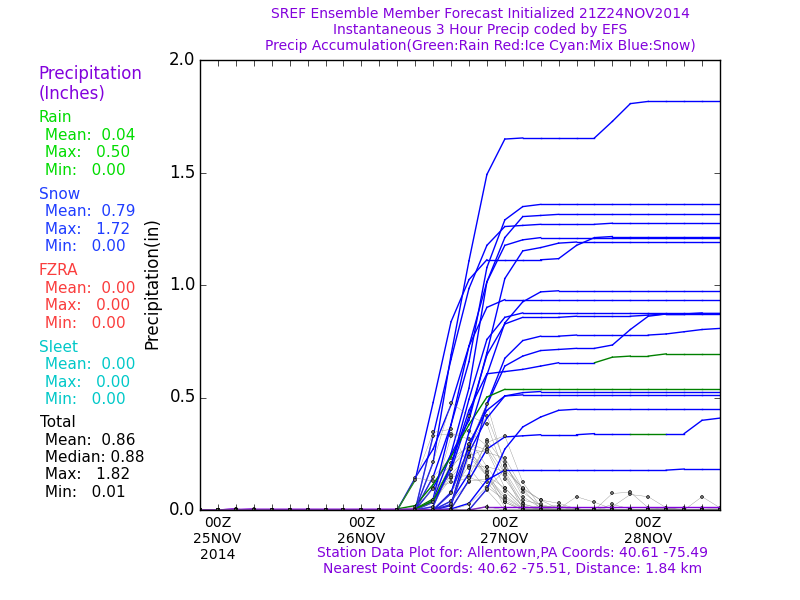
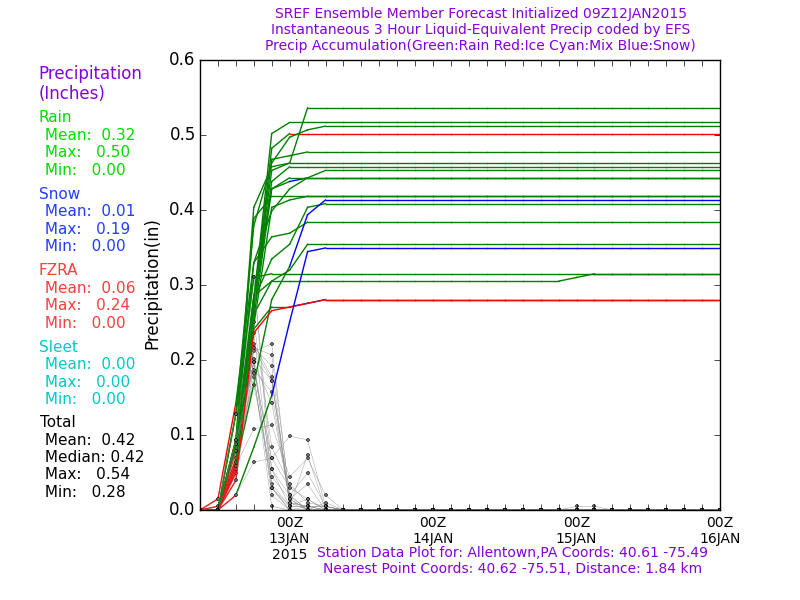
plumes/ptype.py -Added functional code. -Now able to plot the graph portion of the plume. config.py -Added output path constant. main.py -Added describe import. -Added text display with useful information when populating data and plotting diagrams. -Created new flow control structure for plotting pl

diff --git a/src/pywxfades/plumes/ptype.py b/src/pywxfades/plumes/ptype.py
@@ -3,10 +3,121 @@ Created on Jan 11, 2015
 
 @author: Joel
 '''
-# This is completely procedural programming so no need for an object.
+# Local package imports.
+import describe
+# External package imports.
+import matplotlib.pyplot as plt
+import numpy
+# Standard library from imports.
+from datetime import datetime #@UnusedImport Needed type only.
+from datetime import timedelta
+# Standard library imports.
+import os
 #
-def plot(sdo):
-    pass
+# Define module constants.
+COLORS = {'Rain':'g','Snow':'b','FZRA':'r',\
+          'Sleet':'c','raw':'#8200dc','hourly':'0.5'}
+# Begin module code.
+def plot(sdo,config):
+    """
+    Plots a ptype plume from the data received.
+    Process:
+    For every model, at each forecast interval, plot a point at the current
+     total precipitation value, and another point at the previous total
+     precipitation value, then draw a line between them, colored according to
+     the precipitation type variable at that time index.
+     Also, plot another point at the total precipitation since last forecast
+     point and draw a line between it and the previous forecast's precipitation.
+    We need a plot_line function which takes 2 points and a color and draws a
+     line between the points in the specified color.
+    """
+    # Import StationData/Config only when called to avoid redundancy errors.
+    from stationData import StationData #@UnusedImport Need type only. @UnresolvedImport PyDev issue.
+    from config import Config #@UnresolvedImport PyDev issue.
+    # Define a few static values from config and station data.
+    output_file_path = (Config.OUTPUT_PATH + '/' +
+                        config.model_init_dt.strftime('%Y%m%d/%HZ') + '/' +
+                        describe.PLUMES[0][0] + '-' + str(sdo.station_name) +
+                        '.png')
+    # Grab relevant data.
+    data = sdo.data[config.indexes[describe.PLUMES[0][0]]] # COMPLEX
+    # Define a plot area.
+    plt.axes([0.25, 0.15, 0.65, 0.75])
+    # Define horizontal (time) axis values. Automatic values are nonsensical.
+    # Define label number for control flow and a list of label text.
+    label_num = 0
+    labels = []
+    # Loop over all times create a label based on forecast time and conditions.
+    for i in range(0,data.shape[2]):
+        # Start at model init date/time, each step add time between forecasts.
+        now = config.model_init_dt + timedelta(hours=(i * config.model_fcst_interval))
+        # Plot text every 24 for GEFS, every 12 hours for SREF, starting 0Z.
+        # Year to be printed on first appearing label.
+        # Date to be printed on all 0Z labels.
+        # Empty string to be printed on all other labels.
+        if now.hour == 0 or (now.hour == 12 and config.forecast_system == 'sref'):
+            label_num += 1
+            if label_num == 1:
+                label = now.strftime('%HZ\n%d%b\n%Y').upper()
+            elif now.hour == 0:
+                label = now.strftime('%HZ\n%d%b').upper()
+            else:
+                label = now.strftime('%HZ').upper()
+        else:
+            label = ''
+        # Add string to list of labels.
+        labels.append(label)
+    # Transform label list into an array.
+    labels = numpy.array(labels)
+    # Set the x-axis of the plot. (where,what,size in points).
+    plt.xticks(numpy.arange(0, data.shape[2]),labels,size=10)
+    # Draw the true plot.
+    # Loop over all models (shape[1]).
+    for mdl in range(0,data.shape[1]):
+        # Define current and previous cumulative amount totals used for line
+        #  plotting.
+        prev_cum_amt = 0
+        cum_amt = 0
+        # Define current and previous color to continue coloring line after
+        #  precipitation ends.
+        prev_color = COLORS['raw']
+        color = COLORS['raw']
+        # Loop over all forecast times (shape[2]).
+        for tm in range(0,data.shape[2]):
+            # Copy old values to 'previous' variables.
+            prev_cum_amt = cum_amt
+            prev_color = color
+            # Add the forecast precipitation to the cumulative total precip.
+            cum_amt += data[config.indexes['tp']][mdl][tm]
+            # Set all initialization totals to 0.
+            if tm == 0:
+                cum_amt = 0.0
+                data[config.indexes['tp']][mdl][tm] = 0.0
+            # Do not plot a plume line on the initialization.
+            if tm != 0:
+                # Set the line color based on precipitation type.
+                if int(data[config.indexes['crain']][mdl][tm]):
+                    color = COLORS['Rain']
+                elif int(data[config.indexes['csnow']][mdl][tm]):
+                    color = COLORS['Snow']
+                elif int(data[config.indexes['cicep']][mdl][tm]):
+                    color = COLORS['Sleet']
+                elif int(data[config.indexes['cfrzr']][mdl][tm]):
+                    color = COLORS['FZRA']
+                else:
+                    color = prev_color
+                plt.plot([tm-1,tm],[prev_cum_amt,cum_amt],color)
+        plt.plot(data[config.indexes['tp']][mdl],COLORS['hourly'],lw=0.25,marker='o',markersize=2)
+    plt.ylabel('Precipitation(in)')
+    # Create output directories if they don't exist.
+    cur_output_path = '/'.join(output_file_path.split('/')[:-1])
+    if not os.path.exists(cur_output_path):
+        os.makedirs(cur_output_path)
+    # Save the figure.
+    plt.savefig(output_file_path)
+    # Clear the figure to plot the next one.
+    plt.clf()
+    return
 #
 if __name__ == '__main__':
     print 'ptype.py is not designed to be run independently.'

diff --git a/src/pywxfades/main.py b/src/pywxfades/main.py
@@ -8,6 +8,7 @@ Created on Jan 7, 2015
 from config import Config
 from manageData import inventory
 from modelData import ModelData
+from plumes import describe
 from stationData import StationData
 import ui
 # Standard library imports
@@ -71,12 +72,21 @@ def main():
     gen_station_data_objects(config)
     # Loop over ModelData objects and populate data.
     for model in ModelData.instances:
-        print 'POPULATING'
+        print '%s Reading model data file %s/%s.\n\t Model: %s\n\t File: %s' %\
+                (PRETEXT, ModelData.instances.index(model) + 1,
+                 len(ModelData.instances), model.member_name,
+                 model.grib_file_path)
         model.populate_data()
-    # Loop over StationData objects and print data. This will change to plot
-    #  data, but this is just a test to ensure working data structure.
-    for station in StationData.instances:
-        print station.data
+    # Loop over plume definitions and plot plumes for each station.
+    for plume in describe.PLUMES:
+        # Loop over station data objects.
+        for station in StationData.instances:
+            print '%s Plotting %s plume %s/%s for %s, station %s/%s' %\
+                    (PRETEXT, plume[0], describe.PLUMES.index(plume) + 1,
+                     len(describe.PLUMES), station.station_name,
+                     StationData.instances.index(station) + 1,
+                     len(StationData.instances))
+            plume[4](station,config)
     # TODO: To Be Continued...
     return
 #
@@ -169,7 +179,7 @@ def parse_arguments(config):
             #  data file. This must be a .dat file and must exist.
             #  config.set_stations_data_file() will check for validity.
             arg_stations_data_file_name = sys.argv[arg_index[0]]
-            config.set_stations_data_file(arg_stations_data_file_name)
+            config.set_stations_data_file_name(arg_stations_data_file_name)
         else:
             config.set_stations_data_file_name(Config.DEFAULT_STATIONS_DATA_FILE_NAME)
     return

diff --git a/src/pywxfades/ui.py b/src/pywxfades/ui.py
@@ -92,7 +92,7 @@ def menu(options,title='Menu',desc=None,multi=False):
         split_options = [options[i:i+10] for i in range(0, len(options), 10)]
         # Panel index will be used to keep track of which page of the full menu
         #  the user is on.
-        panel_index = 0
+        panel_index = 1
         # Keep going until an escape input appears or the program is terminated.
         while True:
             # Create a new menu from the subset of options and get input.

diff --git a/src/pywxfades/config.py b/src/pywxfades/config.py
@@ -46,6 +46,7 @@ class Config:
     """
     GRIB_STORAGE_PATH = '../../GRIB'
     STATIONS_DATA_STORAGE_PATH = '../../config'
+    OUTPUT_PATH = '../../output'
     DEFAULT_STATIONS_DATA_FILE_NAME = 'paStations.dat'
     TEST_MODE = False
     #
